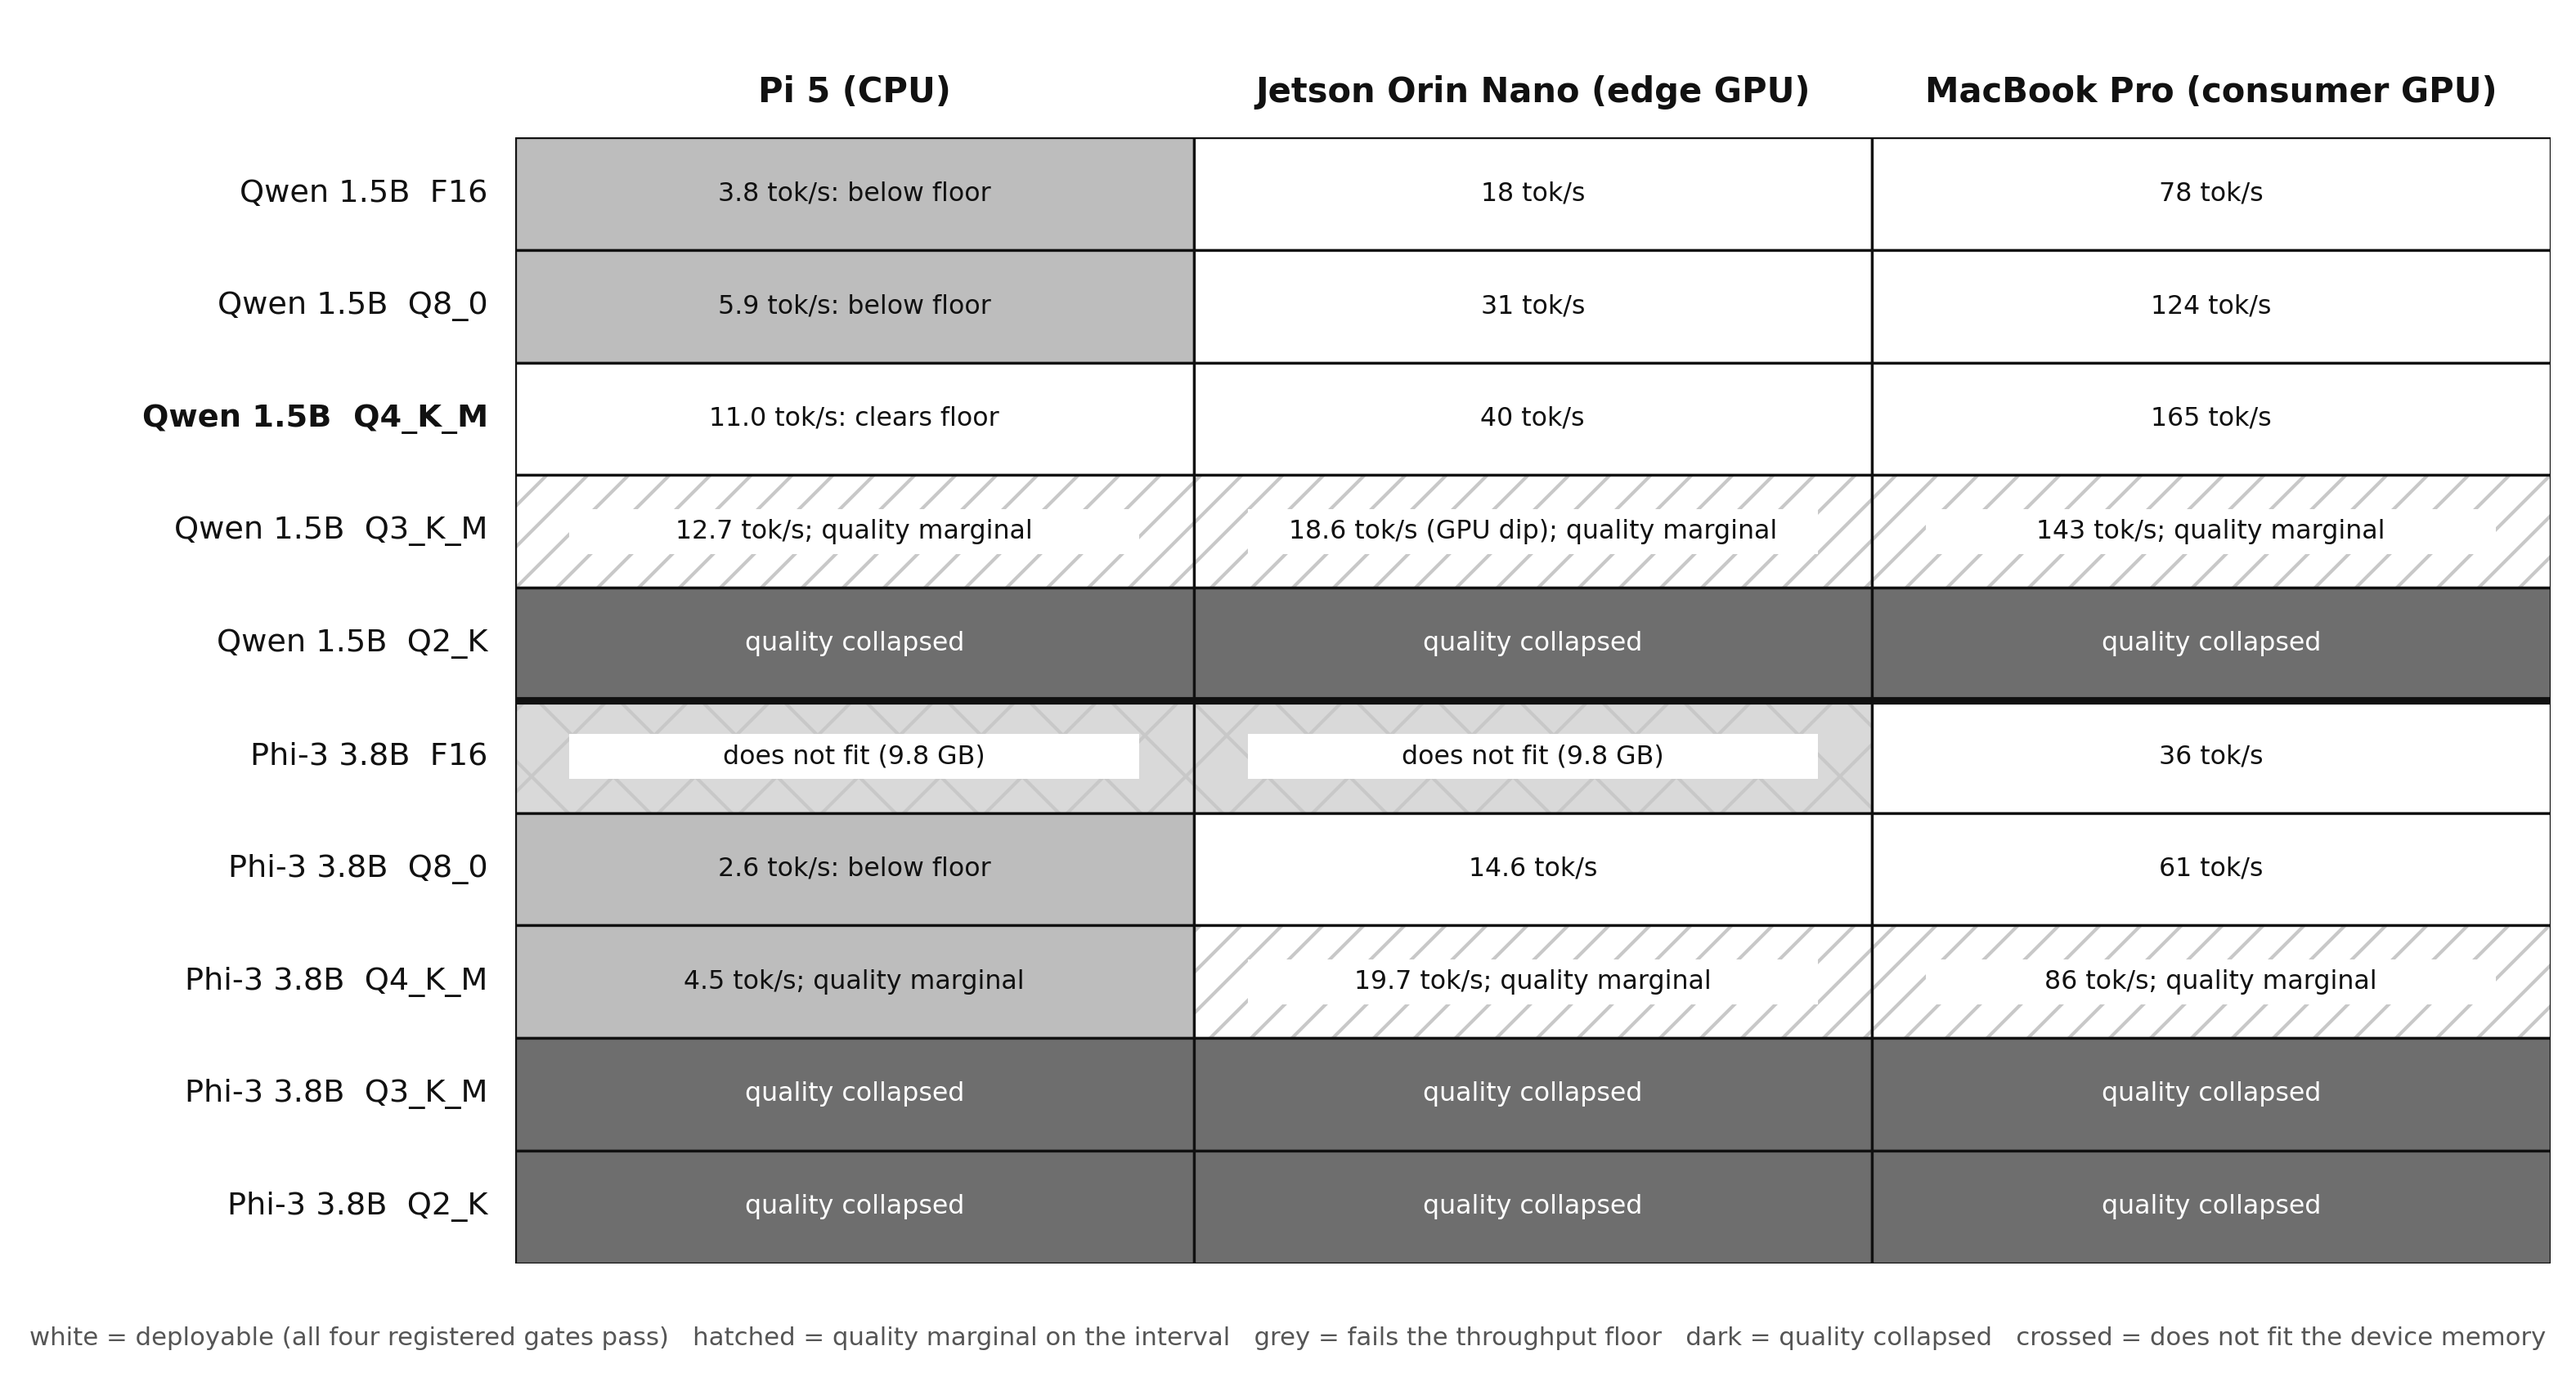
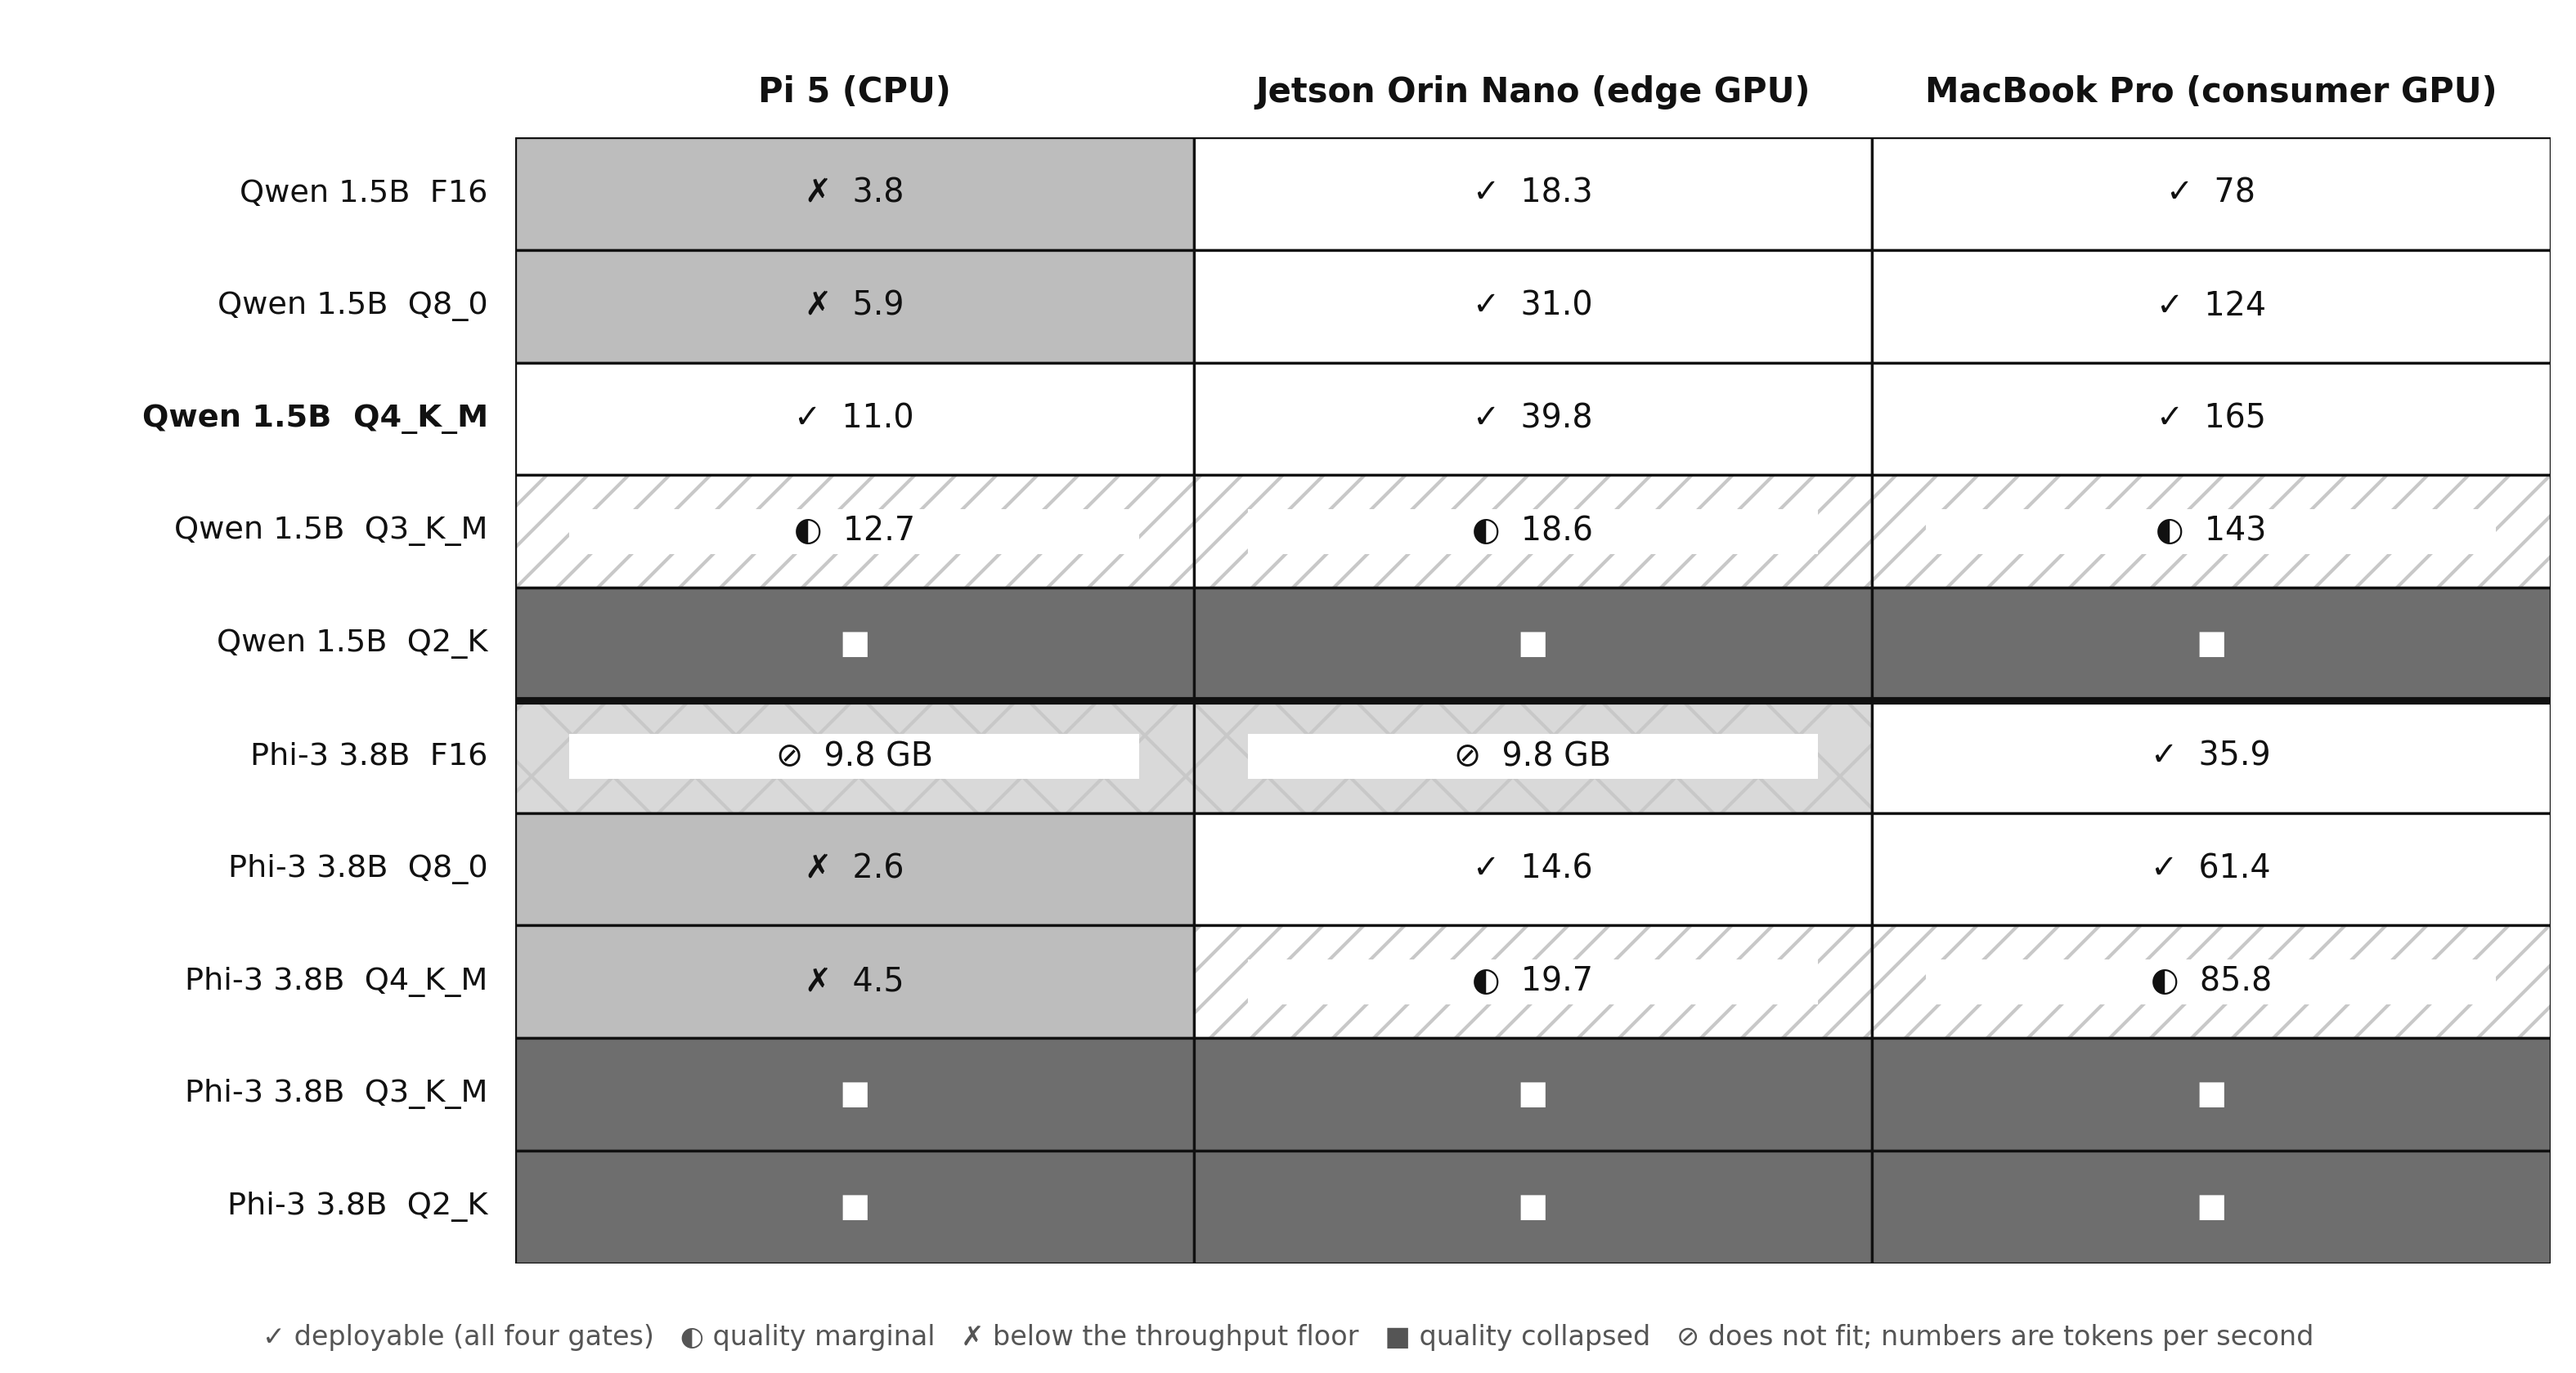
Project update

diff --git a/irp/analysis/make_fig_depmap.py b/irp/analysis/make_fig_depmap.py
@@ -17,17 +17,18 @@ rows = [("Qwen 1.5B", "F16"), ("Qwen 1.5B", "Q8_0"), ("Qwen 1.5B", "Q4_K_M"), ("
 cols = ["Pi 5 (CPU)", "Jetson Orin Nano (edge GPU)", "MacBook Pro (consumer GPU)"]
 # (kind, label): kind in {"ok","marg","fail","collapse","nofit"}
 V = {
- ("Qwen 1.5B","F16"):   [("fail","3.8 tok/s: below floor"), ("ok","18 tok/s"), ("ok","78 tok/s")],
- ("Qwen 1.5B","Q8_0"):  [("fail","5.9 tok/s: below floor"), ("ok","31 tok/s"), ("ok","124 tok/s")],
- ("Qwen 1.5B","Q4_K_M"):[("ok","11.0 tok/s: clears floor"), ("ok","40 tok/s"), ("ok","165 tok/s")],
- ("Qwen 1.5B","Q3_K_M"):[("marg","12.7 tok/s; quality marginal"), ("marg","18.6 tok/s (GPU dip); quality marginal"), ("marg","143 tok/s; quality marginal")],
- ("Qwen 1.5B","Q2_K"):  [("collapse","quality collapsed"), ("collapse","quality collapsed"), ("collapse","quality collapsed")],
- ("Phi-3 3.8B","F16"):  [("nofit","does not fit (9.8 GB)"), ("nofit","does not fit (9.8 GB)"), ("ok","36 tok/s")],
- ("Phi-3 3.8B","Q8_0"): [("fail","2.6 tok/s: below floor"), ("ok","14.6 tok/s"), ("ok","61 tok/s")],
- ("Phi-3 3.8B","Q4_K_M"):[("fail","4.5 tok/s; quality marginal"), ("marg","19.7 tok/s; quality marginal"), ("marg","86 tok/s; quality marginal")],
- ("Phi-3 3.8B","Q3_K_M"):[("collapse","quality collapsed"), ("collapse","quality collapsed"), ("collapse","quality collapsed")],
- ("Phi-3 3.8B","Q2_K"): [("collapse","quality collapsed"), ("collapse","quality collapsed"), ("collapse","quality collapsed")],
+ ("Qwen 1.5B","F16"):   [("fail","3.8"), ("ok","18.3"), ("ok","78")],
+ ("Qwen 1.5B","Q8_0"):  [("fail","5.9"), ("ok","31.0"), ("ok","124")],
+ ("Qwen 1.5B","Q4_K_M"):[("ok","11.0"), ("ok","39.8"), ("ok","165")],
+ ("Qwen 1.5B","Q3_K_M"):[("marg","12.7"), ("marg","18.6"), ("marg","143")],
+ ("Qwen 1.5B","Q2_K"):  [("collapse",""), ("collapse",""), ("collapse","")],
+ ("Phi-3 3.8B","F16"):  [("nofit","9.8 GB"), ("nofit","9.8 GB"), ("ok","35.9")],
+ ("Phi-3 3.8B","Q8_0"): [("fail","2.6"), ("ok","14.6"), ("ok","61.4")],
+ ("Phi-3 3.8B","Q4_K_M"):[("fail","4.5"), ("marg","19.7"), ("marg","85.8")],
+ ("Phi-3 3.8B","Q3_K_M"):[("collapse",""), ("collapse",""), ("collapse","")],
+ ("Phi-3 3.8B","Q2_K"): [("collapse",""), ("collapse",""), ("collapse","")],
 }
+SYM = {"ok": "✓", "marg": "◐", "fail": "✗", "collapse": "■", "nofit": "⊘"}
 style = {"ok": dict(fc="white", hatch=None), "marg": dict(fc="white", hatch="//"), "fail": dict(fc="#bdbdbd", hatch=None),
          "collapse": dict(fc="#6e6e6e", hatch=None), "nofit": dict(fc="#d9d9d9", hatch="x")}
 fig, ax = plt.subplots(figsize=(10.5, 5.6), dpi=300)
@@ -41,10 +42,11 @@ for i, (m, r) in enumerate(rows):
         st = style[kind]
         ax.add_patch(Rectangle((j, y), 1, 1, fc=st["fc"], ec="#c8c8c8", lw=0, hatch=st["hatch"])); ax.add_patch(Rectangle((j, y), 1, 1, fc="none", ec=INK, lw=0.8))
         if kind in ("marg", "nofit"): ax.add_patch(Rectangle((j + 0.08, y + 0.3), 0.84, 0.4, fc="white", ec="none"))
-        ax.text(j + 0.5, y + 0.5, label, ha="center", va="center", fontsize=7.6,
-                color="white" if kind == "collapse" else INK, wrap=True)
+        txt = (SYM[kind] + "  " + label).strip()
+        ax.text(j + 0.5, y + 0.5, txt, ha="center", va="center", fontsize=9.5,
+                color="white" if kind == "collapse" else INK)
     if r == "Q2_K" and i < len(rows) - 1:
         ax.plot([0, 3], [y, y], color=INK, lw=2.2)
-fig.text(0.5, 0.02, "white = deployable (all four registered gates pass)   hatched = quality marginal on the interval   grey = fails the throughput floor   "
-         "dark = quality collapsed   crossed = does not fit the device memory", ha="center", fontsize=7.4, color=MID)
+fig.text(0.5, 0.02, "✓ deployable (all four gates)   ◐ quality marginal   ✗ below the throughput floor   ■ quality collapsed   ⊘ does not fit; numbers are tokens per second",
+         ha="center", fontsize=8, color=MID)
 fig.subplots_adjust(left=0.2, right=0.99, top=0.9, bottom=0.08); fig.savefig(OUT, dpi=300, facecolor="white"); print("wrote", OUT)

diff --git a/irp/analysis/make_fig_collapse.py b/irp/analysis/make_fig_collapse.py
@@ -1,0 +1,33 @@
+"""Figure 4.1: HumanEval+ pass@1 across the naive ladder for both models, with per-estimate 95% intervals (Table D.1),
+each model's five-point margin below its F16 drawn as a dashed line, effective bits per weight beneath each rung
+(Table D.2), and the verdict class of Table 4.1 as the marker style. Text kept minimal: it counts toward the limit."""
+import os
+import matplotlib; matplotlib.use("Agg")
+import matplotlib.pyplot as plt
+
+HERE = os.path.dirname(os.path.abspath(__file__))
+rungs = ["F16", "Q8_0", "Q4_K_M", "Q3_K_M", "Q2_K"]
+bits = {"Qwen": [16.0, 8.5, 5.1, 4.3, 3.5], "Phi-3": [16.0, 8.5, 5.0, 4.1, 3.2]}
+data = {
+ "Qwen2.5-Coder-1.5B": dict(c="#1f4e9c", y=[0.610, 0.616, 0.616, 0.585, 0.384], lo=[0.537, 0.543, 0.543, 0.512, 0.311], hi=[0.683, 0.689, 0.689, 0.659, 0.457],
+                            cls=["base", "within", "within", "inconclusive", "collapsed"]),
+ "Phi-3-mini-3.8B": dict(c="#c8551a", y=[0.646, 0.628, 0.549, 0.427, 0.220], lo=[0.573, 0.555, 0.470, 0.348, 0.159], hi=[0.720, 0.701, 0.628, 0.500, 0.280],
+                         cls=["base", "within", "inconclusive", "collapsed", "collapsed"]),
+}
+fig, ax = plt.subplots(figsize=(8.2, 4.6))
+x = list(range(5))
+for name, d in data.items():
+    ax.plot(x, d["y"], color=d["c"], lw=2, zorder=2, label=name)
+    ax.errorbar(x, d["y"], yerr=[[a - b for a, b in zip(d["y"], d["lo"])], [b - a for a, b in zip(d["y"], d["hi"])]], fmt="none", ecolor=d["c"], elinewidth=1.1, capsize=3, zorder=2)
+    ax.axhline(d["y"][0] - 0.05, color=d["c"], lw=1, ls="--", alpha=0.7, zorder=1)
+    for xi, yi, cl in zip(x, d["y"], d["cls"]):
+        if cl in ("base", "within"): ax.plot(xi, yi, "o", color=d["c"], ms=8, zorder=3)
+        elif cl == "inconclusive": ax.plot(xi, yi, "o", mfc="white", mec=d["c"], mew=2, ms=8, zorder=3)
+        else: ax.plot(xi, yi, "X", color=d["c"], ms=10, zorder=3)
+ax.text(4.08, data["Qwen2.5-Coder-1.5B"]["y"][0] - 0.05, "margin", color="#1f4e9c", fontsize=8, va="top")
+ax.text(4.08, data["Phi-3-mini-3.8B"]["y"][0] - 0.05, "margin", color="#c8551a", fontsize=8, va="bottom")
+ax.set_xticks(x); ax.set_xticklabels([f"{r}\n{bits['Qwen'][i]:.1f} / {bits['Phi-3'][i]:.1f} bits" for i, r in enumerate(rungs)], fontsize=9)
+ax.set_ylim(0.1, 0.8); ax.set_ylabel("HumanEval+ pass@1 (n = 164)"); ax.set_xlabel("rung (effective bits per weight: Qwen / Phi-3)")
+ax.grid(axis="y", alpha=0.3); ax.legend(frameon=False, loc="lower left", fontsize=9)
+for s in ("top", "right"): ax.spines[s].set_visible(False)
+plt.tight_layout(); out = os.path.join(HERE, "figures", "fig4-1_collapse.png"); fig.savefig(out, dpi=220); print("wrote", out)

diff --git a/irp/project-log.md b/irp/project-log.md
@@ -886,3 +886,12 @@ c = 0; 589 ms explained from `e1-openbook.md`; memory anomalies confirmed reprod
 adoption dated from the 2026-09-21 note in `mbpp-robustness.md`). Two build defects found and fixed: appendix citations were not
 renumbered (Appendix B cited [41] for Clopper–Pearson), and the glossary had been inserted inside the ToC field. Disposition table in
 `review-note-2026-10-20.md`, addendum 2.
+
+## 2026-10-21 — Reviewer's third pass fixed; the improvement plan applied; rebuilt at 8,959 declared words
+
+Breakages from the earlier edits repaired (antecedent, fractured sentence, Table D.10, Q3_K_M addendum clause). The latency gate
+is now applied to cold-inclusive first-token means from the run CSVs (Table 4.3), with the re-application reported in §4.4 (no
+verdict changes). New analysis from the snapshots: Table 4.2 (what is lost at the cliff) and Table 4.6 (first beyond-margin rung
+by model, recipe and benchmark; nine cells). Specialisation inference written out in §5.2. Methodology thresholds justified and
+registered-versus-added statistics stated. Executive summary rewritten for a lay reader. Figure 4.1 rebuilt with intervals and
+margins; deployment map reduced to symbols.
